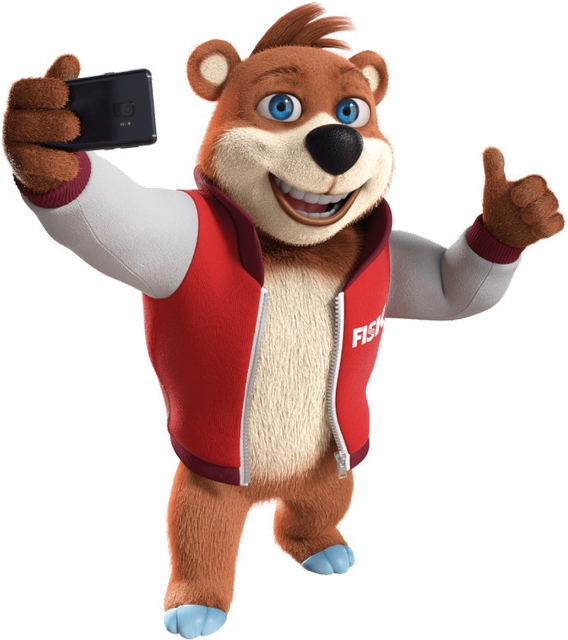
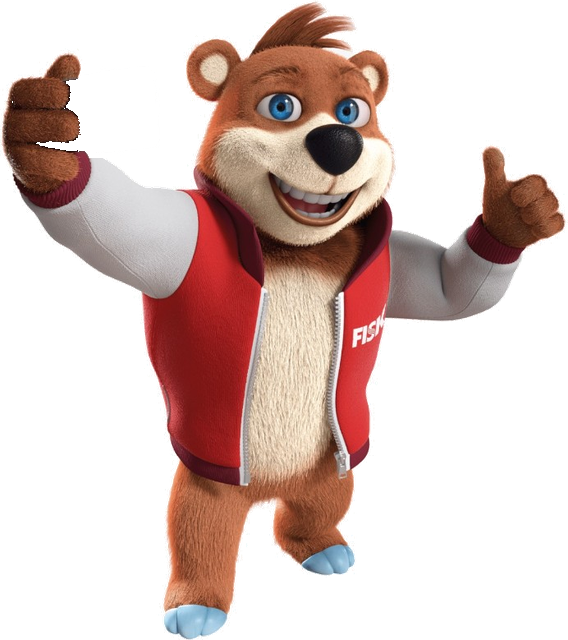
Faz o Buddy andar sozinho atrás do mouse, sem o celular na mão.

Changed region(s): [[0.0599, 0.0938, 0.2993, 0.25]]

diff --git a/src/components/fisk-buddy.tsx b/src/components/fisk-buddy.tsx
@@ -2,28 +2,108 @@
 
 import { useEffect, useRef, useState } from "react";
 
-const HEIGHT = 210;
-const WIDTH = 186;
+const HEIGHT = 270;
+const WIDTH = 240;
+const IMG_W = 568;
+const IMG_H = 640;
 const CHEER_MS = 2400;
+const SLICE = 2;
 
 export function celebrateSale() {
   if (typeof window === "undefined") return;
   window.dispatchEvent(new Event("snack-sale"));
 }
 
+function roundRect(ctx: CanvasRenderingContext2D, x: number, y: number, w: number, h: number, r: number) {
+  ctx.beginPath();
+  ctx.roundRect(x, y, w, h, r);
+}
+
+function drawCan(ctx: CanvasRenderingContext2D, x: number, y: number, rot: number) {
+  ctx.save();
+  ctx.translate(x + 54, y + 78);
+  ctx.rotate(rot);
+  ctx.translate(-54, -78);
+  ctx.fillStyle = "#c8102e";
+  roundRect(ctx, 0, 20, 116, 136, 20);
+  ctx.fill();
+  ctx.fillStyle = "#d7dde3";
+  roundRect(ctx, 0, 20, 116, 22, 11);
+  ctx.fill();
+  ctx.fillStyle = "#9aa3ab";
+  roundRect(ctx, 0, 134, 116, 22, 10);
+  ctx.fill();
+  ctx.fillStyle = "#fff7f7";
+  roundRect(ctx, 16, 62, 84, 42, 8);
+  ctx.fill();
+  ctx.strokeStyle = "#c8102e";
+  ctx.lineWidth = 4;
+  ctx.lineCap = "round";
+  ctx.beginPath();
+  ctx.moveTo(28, 84);
+  ctx.bezierCurveTo(48, 98, 68, 70, 90, 86);
+  ctx.stroke();
+  ctx.restore();
+}
+
+function drawCookie(ctx: CanvasRenderingContext2D, x: number, y: number, rot: number) {
+  ctx.save();
+  ctx.translate(x, y);
+  ctx.rotate(rot);
+  ctx.beginPath();
+  ctx.arc(0, 0, 36, 0, Math.PI * 2);
+  ctx.fillStyle = "#e2a15a";
+  ctx.fill();
+  ctx.lineWidth = 5;
+  ctx.strokeStyle = "#c4843a";
+  ctx.stroke();
+  ctx.fillStyle = "#6b3a22";
+  for (const [cx, cy, r] of [
+    [-12, -8, 4.2],
+    [10, -10, 3.4],
+    [-2, 8, 4],
+    [14, 8, 3],
+    [-14, 12, 2.8],
+  ] as const) {
+    ctx.beginPath();
+    ctx.arc(cx, cy, r, 0, Math.PI * 2);
+    ctx.fill();
+  }
+  ctx.restore();
+}
+
 export function FiskBuddy() {
   const root = useRef<HTMLDivElement>(null);
-  const body = useRef<HTMLButtonElement>(null);
+  const figure = useRef<HTMLDivElement>(null);
   const shadow = useRef<HTMLSpanElement>(null);
-  const motion = useRef({ x: 24, y: 0, dir: 1, walking: false, placed: false, celebrateUntil: 0, mouseX: 0, mouseY: 0 });
-  const [walking, setWalking] = useState(false);
+  const canvas = useRef<HTMLCanvasElement>(null);
+  const motion = useRef({
+    x: 24,
+    y: 0,
+    dir: 1,
+    placed: false,
+    celebrateUntil: 0,
+    mouseX: 0,
+    mouseY: 0,
+    phase: 0,
+  });
   const [cheering, setCheering] = useState(false);
 
   useEffect(() => {
     const node = root.current;
-    const figure = body.current;
+    const body = figure.current;
     const shade = shadow.current;
-    if (!node || !figure || !shade) return;
+    const surface = canvas.current;
+    if (!node || !body || !shade || !surface) return;
+    const ctx = surface.getContext("2d");
+    if (!ctx) return;
+    const dpr = Math.min(2, window.devicePixelRatio || 1);
+    surface.width = IMG_W * dpr;
+    surface.height = IMG_H * dpr;
+    ctx.setTransform(dpr, 0, 0, dpr, 0, 0);
+
+    const picture = new Image();
+    picture.src = "/buddy.png";
     const state = motion.current;
     let cheerTimer = 0;
     const onSale = () => {
@@ -32,12 +112,18 @@ export function FiskBuddy() {
       window.clearTimeout(cheerTimer);
       cheerTimer = window.setTimeout(() => setCheering(false), CHEER_MS);
     };
-    window.addEventListener("snack-sale", onSale);
-    const onMouse = (event: MouseEvent) => {
+    const onPointer = (event: PointerEvent) => {
       state.mouseX = event.clientX;
       state.mouseY = event.clientY;
     };
-    window.addEventListener("mousemove", onMouse);
+    window.addEventListener("snack-sale", onSale);
+    window.addEventListener("pointermove", onPointer);
+
+    const blit = (sx: number, sw: number, dx: number, dy: number, sy: number, sh: number) => {
+      if (sw <= 0 || sh <= 0 || !picture.naturalWidth) return;
+      ctx.drawImage(picture, sx, sy, sw, sh, sx + dx, sy + dy, sw, sh);
+    };
+
     let frame = 0;
     let raf = 0;
     const tick = () => {
@@ -47,53 +133,92 @@ export function FiskBuddy() {
       if (!state.placed) {
         state.x = 24;
         state.y = Math.max(8, window.innerHeight - HEIGHT - (window.innerWidth < 768 ? 78 : 18));
+        state.mouseX = state.x + WIDTH / 2;
+        state.mouseY = state.y + HEIGHT / 2;
         state.placed = true;
       }
+
+      const cheeringNow = performance.now() < state.celebrateUntil;
+      const targetX = Math.min(maxX, Math.max(8, state.mouseX - WIDTH / 2));
+      const targetY = Math.min(maxY, Math.max(8, state.mouseY - HEIGHT / 2));
+      const dx = targetX - state.x;
+      const dy = targetY - state.y;
+      const dist = Math.hypot(dx, dy);
+      const moving = !cheeringNow && dist > 14;
+
+      if (moving) {
+        const speed = Math.min(7.2, Math.max(2.2, dist * 0.13));
+        state.x += (dx / dist) * speed;
+        state.y += (dy / dist) * speed;
+        if (Math.abs(dx) > 10) state.dir = dx > 0 ? 1 : -1;
+        state.phase += 0.34;
+      } else {
+        state.phase += cheeringNow ? 0.55 : 0.045;
+      }
+      state.x = Math.min(maxX, Math.max(8, state.x));
+      state.y = Math.min(maxY, Math.max(8, state.y));
+
+      const amp = cheeringNow ? 1.15 : moving ? 1 : 0.32;
+      const look = Math.max(-1, Math.min(1, dx / 160));
+      const lean = moving ? state.dir : look * 0.35;
       let lift = 0;
       let sx = 1;
       let sy = 1;
       let tilt = 0;
-      const cheeringNow = performance.now() < state.celebrateUntil;
       if (cheeringNow) {
-        const left = state.celebrateUntil - performance.now();
-        const elapsed = CHEER_MS - left;
-        const t = (elapsed % 420) / 420;
-        const hop = Math.sin(t * Math.PI);
+        const elapsed = CHEER_MS - (state.celebrateUntil - performance.now());
+        const hop = Math.sin(((elapsed % 420) / 420) * Math.PI);
         lift = 8 + hop * 52;
         sy = hop > 0.2 ? 1.08 + hop * 0.08 : 0.82;
         sx = hop > 0.2 ? 0.94 : 1.16;
         tilt = Math.sin(elapsed / 120) * 14;
-      } else if (state.walking) {
-        const targetX = Math.min(maxX, Math.max(8, state.mouseX - WIDTH / 2));
-        const targetY = Math.min(maxY, Math.max(8, state.mouseY - HEIGHT / 2));
-        const dx = targetX - state.x;
-        const dy = targetY - state.y;
-        const dist = Math.hypot(dx, dy);
-        if (dist > 8) {
-          const speed = Math.min(8, Math.max(2.4, dist * 0.14));
-          state.x += (dx / dist) * speed;
-          state.y += (dy / dist) * speed;
-          if (Math.abs(dx) > 6) state.dir = dx > 0 ? 1 : -1;
-          const t = (frame % 28) / 28;
-          const hop = Math.sin(t * Math.PI);
-          const landing = t < 0.14 || t > 0.9;
-          lift = hop * 22;
-          sy = landing ? 0.86 : 1 + hop * 0.08;
-          sx = landing ? 1.12 : 1 - hop * 0.04;
-          tilt = state.dir * (4 + hop * 5);
-        }
-        state.x = Math.min(maxX, Math.max(8, state.x));
-        state.y = Math.min(maxY, Math.max(8, state.y));
+      } else if (moving) {
+        const hop = Math.abs(Math.sin(state.phase));
+        lift = hop * 20;
+        sy = hop > 0.55 ? 1.05 : 0.94;
+        sx = hop > 0.55 ? 0.97 : 1.06;
+        tilt = state.dir * (3 + hop * 4);
       } else {
-        lift = Math.sin(frame / 17) * 4;
-        tilt = Math.sin(frame / 23) * 4;
-        sy = 1 + Math.sin(frame / 19) * 0.025;
-        sx = 1 + Math.sin(frame / 19) * -0.02;
+        lift = Math.sin(frame / 17) * 5;
+        tilt = Math.sin(frame / 23) * 3 + look * 4;
+        sy = 1 + Math.sin(frame / 19) * 0.03;
+        sx = 1 - Math.sin(frame / 19) * 0.02;
       }
+
+      if (picture.naturalWidth) {
+        ctx.clearRect(0, 0, IMG_W, IMG_H);
+        const hand = offsets(112, state.phase, amp, look, lean);
+        const thumb = offsets(178, state.phase, amp, look, lean);
+        drawCan(ctx, 70 + hand.body + hand.ldx, 18 + hand.ldy, -state.phase * 0.35 * amp);
+        for (let sy0 = 0; sy0 < IMG_H; sy0 += SLICE) {
+          const sh = Math.min(SLICE + 1, IMG_H - sy0);
+          const y = sy0 + SLICE / 2;
+          const pose = offsets(y, state.phase, amp, look, lean);
+          if (y < 468) {
+            if (y < 190) {
+              blit(0, 172, pose.body + pose.ldx, pose.ldy, sy0, sh);
+              blit(172, 268, pose.body, 0, sy0, sh);
+            } else {
+              blit(0, 440, pose.body, 0, sy0, sh);
+            }
+            if (y < 252) blit(440, IMG_W - 440, pose.body + pose.rdx, pose.rdy, sy0, sh);
+            else blit(440, IMG_W - 440, pose.body, 0, sy0, sh);
+          } else {
+            const k = Math.min(1, (y - 455) / 175);
+            const swing = Math.sin(state.phase) * 62 * amp * k;
+            const liftL = Math.max(0, Math.sin(state.phase)) * 40 * amp * k;
+            const liftR = Math.max(0, -Math.sin(state.phase)) * 40 * amp * k;
+            blit(0, 266, pose.body - swing, -liftL, sy0, sh);
+            blit(256, IMG_W - 256, pose.body + swing, -liftR, sy0, sh);
+          }
+        }
+        drawCookie(ctx, 518 + thumb.body + thumb.rdx, 188 + thumb.rdy, state.phase * 0.4 * amp);
+      }
+
       node.style.opacity = "1";
       node.style.transform = `translate3d(${state.x}px, ${state.y - lift}px, 0)`;
-      figure.style.transform = `scaleX(${state.dir}) scale(${sx}, ${sy}) rotate(${tilt}deg)`;
-      const shadowScale = Math.max(0.55, 1 - lift / 46);
+      body.style.transform = `scaleX(${state.dir}) scale(${sx}, ${sy}) rotate(${tilt}deg)`;
+      const shadowScale = Math.max(0.55, 1 - lift / 70);
       shade.style.transform = `translateX(-50%) scaleX(${shadowScale})`;
       shade.style.opacity = String(0.28 * shadowScale);
       raf = requestAnimationFrame(tick);
@@ -102,65 +227,35 @@ export function FiskBuddy() {
     return () => {
       cancelAnimationFrame(raf);
       window.removeEventListener("snack-sale", onSale);
-      window.removeEventListener("mousemove", onMouse);
+      window.removeEventListener("pointermove", onPointer);
       window.clearTimeout(cheerTimer);
     };
   }, []);
 
   return (
-    <div ref={root} className="pointer-events-none fixed top-0 left-0 z-30 opacity-0" style={{ width: WIDTH, height: HEIGHT }}>
+    <div ref={root} className="pointer-events-none fixed top-0 left-0 z-30 opacity-0" style={{ width: WIDTH, height: HEIGHT }} aria-hidden="true">
       {cheering ? (
         <span className="absolute -top-7 left-1/2 -translate-x-1/2 rounded-full bg-primary px-3 py-1 text-xs font-semibold whitespace-nowrap text-primary-foreground">
           Boa venda!
         </span>
       ) : null}
       <span ref={shadow} className="absolute bottom-1 left-1/2 h-3 w-16 rounded-full bg-black/70" />
-      <button
-        ref={body}
-        type="button"
-        aria-label={walking ? "Parar o Buddy" : "Fazer o Buddy seguir o mouse"}
-        onClick={(event) => {
-          const state = motion.current;
-          state.walking = !state.walking;
-          state.mouseX = event.clientX;
-          state.mouseY = event.clientY;
-          setWalking(state.walking);
-        }}
-        className={`${cheering ? "buddy-cheer" : walking ? "buddy-walk" : "buddy-idle"} pointer-events-auto relative h-full w-full cursor-pointer border-0 bg-transparent p-0`}
-      >
-        <style>{`
-          @keyframes buddy-can { 50% { transform: rotate(-14deg) translateY(-3px); } }
-          @keyframes buddy-cookie { 50% { transform: rotate(16deg) translateY(-2px); } }
-          .buddy-can, .buddy-cookie { transform-origin: 50% 80%; }
-          .buddy-walk .buddy-can { animation: buddy-can 0.34s ease-in-out infinite; }
-          .buddy-walk .buddy-cookie { animation: buddy-cookie 0.34s ease-in-out infinite; }
-          .buddy-idle .buddy-can { animation: buddy-can 1.5s ease-in-out infinite; }
-          .buddy-idle .buddy-cookie { animation: buddy-cookie 1.5s ease-in-out infinite; }
-          .buddy-cheer .buddy-can { animation: buddy-can 0.2s ease-in-out infinite; }
-          .buddy-cheer .buddy-cookie { animation: buddy-cookie 0.2s ease-in-out infinite; }
-        `}</style>
-        <img src="/buddy.png" alt="" className="h-full w-full object-contain" />
-        <span className="buddy-can absolute top-[17%] left-[1%] w-[30%]">
-          <svg viewBox="0 0 48 72" className="h-auto w-full drop-shadow-md" aria-hidden="true">
-            <rect x="8" y="8" width="32" height="56" rx="8" fill="#c8102e" />
-            <rect x="8" y="8" width="32" height="8" rx="4" fill="#d7dde3" />
-            <rect x="8" y="54" width="32" height="10" rx="4" fill="#9aa3ab" />
-            <rect x="12" y="24" width="24" height="16" rx="3" fill="#fff7f7" />
-            <path d="M16 32c4 3 8-3 16 0" stroke="#c8102e" strokeWidth="2" fill="none" strokeLinecap="round" />
-          </svg>
-        </span>
-        <span className="buddy-cookie absolute top-[36%] right-[2%] w-[24%]">
-          <svg viewBox="0 0 64 64" className="h-auto w-full drop-shadow-md" aria-hidden="true">
-            <circle cx="32" cy="32" r="26" fill="#e2a15a" />
-            <circle cx="32" cy="32" r="26" fill="none" stroke="#c4843a" strokeWidth="3" />
-            <circle cx="22" cy="24" r="3.2" fill="#6b3a22" />
-            <circle cx="38" cy="22" r="2.6" fill="#6b3a22" />
-            <circle cx="30" cy="36" r="3" fill="#6b3a22" />
-            <circle cx="44" cy="36" r="2.4" fill="#6b3a22" />
-            <circle cx="20" cy="40" r="2.2" fill="#6b3a22" />
-          </svg>
-        </span>
-      </button>
+      <div ref={figure} className="relative h-full w-full origin-bottom">
+        <canvas ref={canvas} className="h-full w-full" />
+      </div>
     </div>
   );
+}
+
+function offsets(y: number, phase: number, amp: number, look: number, lean: number) {
+  const body = lean * (0.5 - y / IMG_H) * 30 + look * Math.max(0, (236 - y) / 236) * 18;
+  const lAmp = y < 190 ? Math.max(0, (190 - y) / 130) : 0;
+  const rAmp = y < 252 ? Math.max(0, (252 - y) / 150) : 0;
+  return {
+    body,
+    ldx: -Math.sin(phase) * 46 * amp * lAmp,
+    ldy: Math.cos(phase) * 14 * amp * lAmp,
+    rdx: Math.sin(phase) * 40 * amp * rAmp,
+    rdy: -Math.cos(phase) * 12 * amp * rAmp,
+  };
 }
